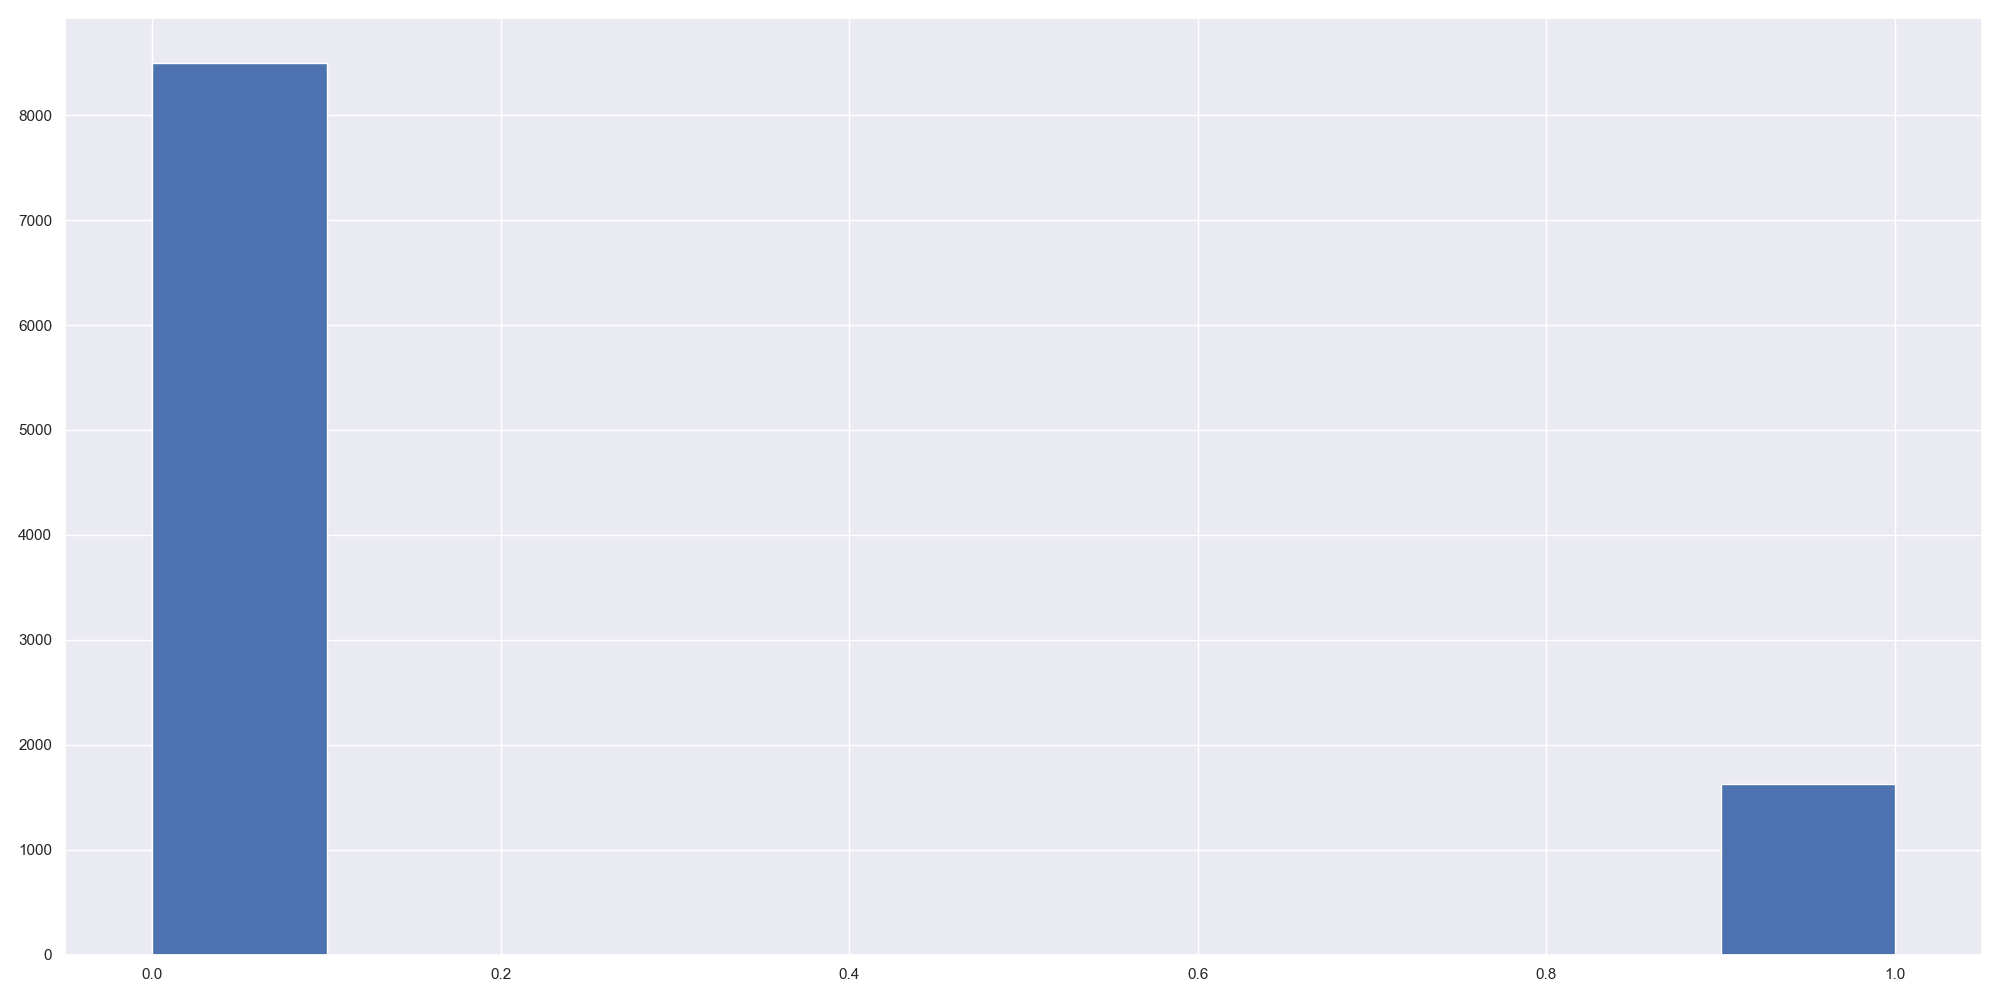
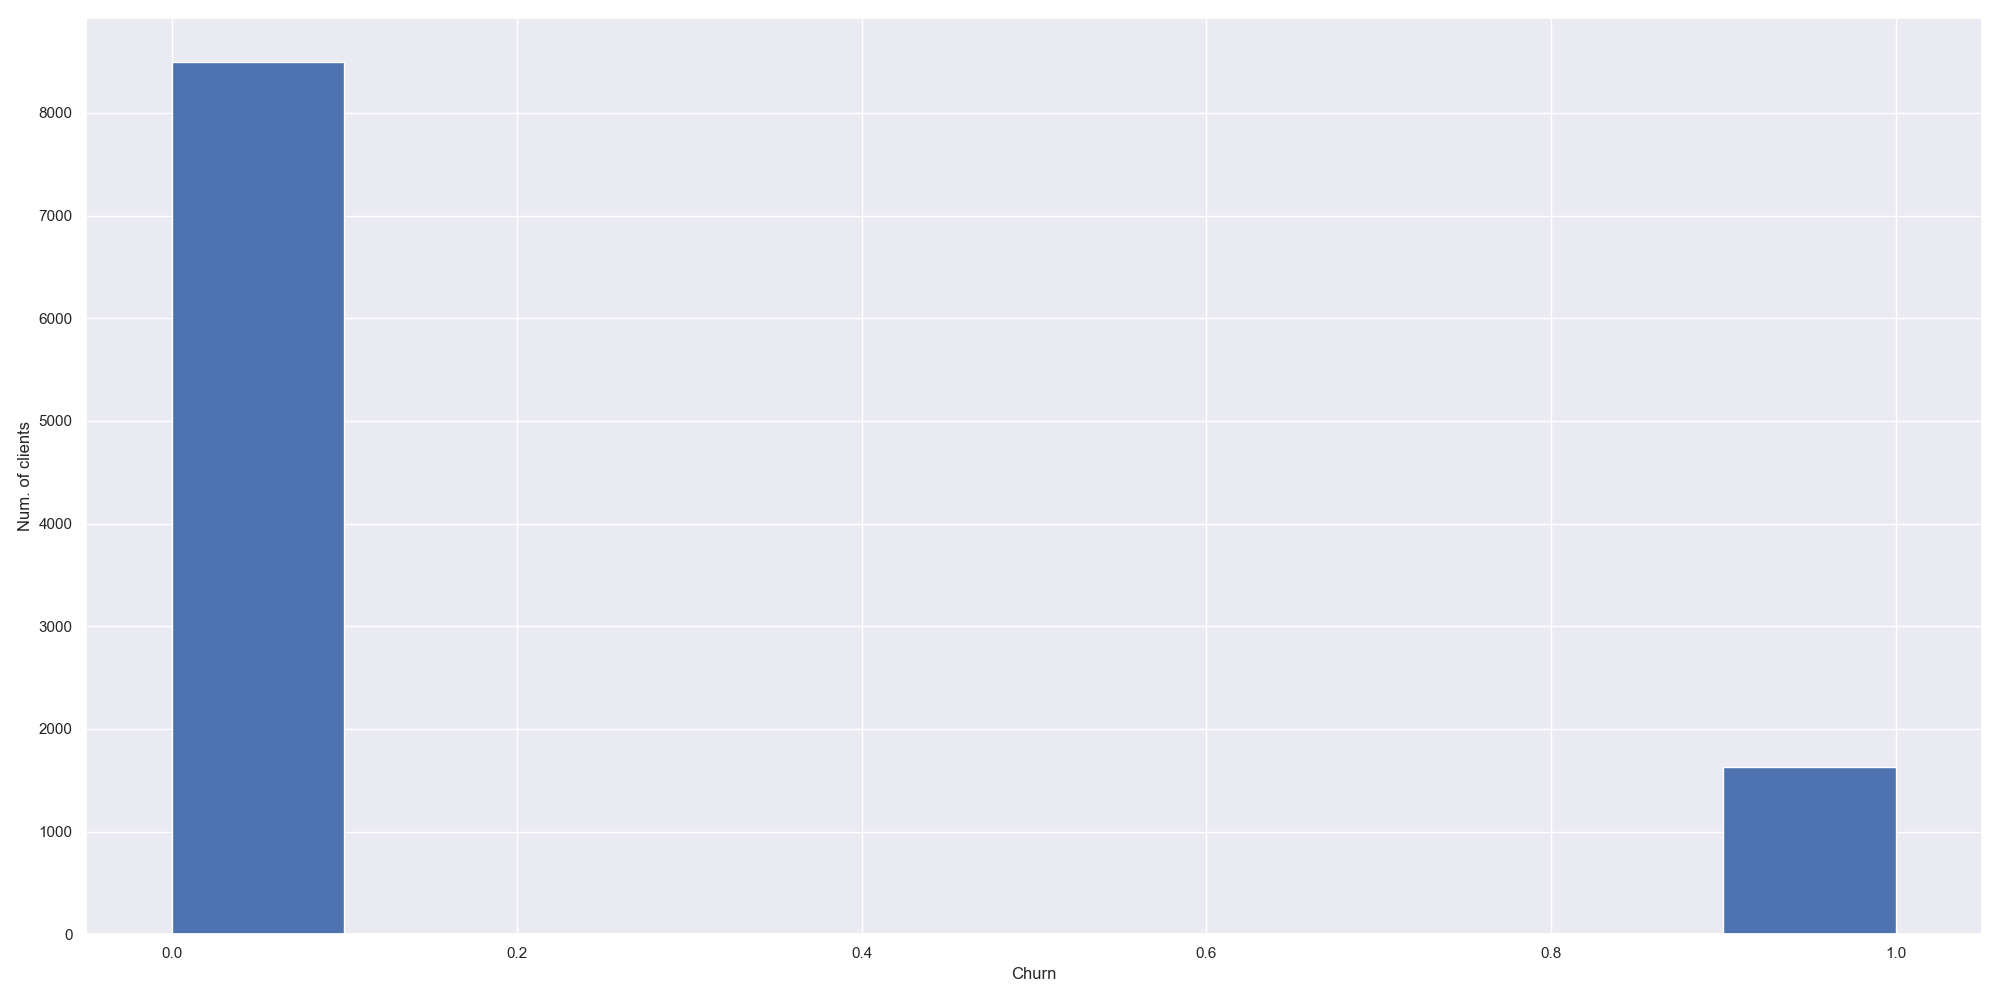
fix eda plots

diff --git a/churn_library.py b/churn_library.py
@@ -49,16 +49,23 @@ def perform_eda(df):
     '''
     plt.figure(figsize=(20, 10))
     plt.hist(df['Churn'])
+    plt.axes().set_xlabel('Churn')
+    plt.axes().set_ylabel('Num. of clients')
     plt.tight_layout()
     plt.savefig('./images/eda/churn_hist.png')
 
     plt.figure(figsize=(20, 10))
     plt.hist(df['Customer_Age'])
+    plt.axes().set_xlabel('Client age')
+    plt.axes().set_ylabel('Num. of clients')
     plt.tight_layout()
     plt.savefig('./images/eda/age_hist.png')
 
     plt.figure(figsize=(20, 10))
     df['Marital_Status'].value_counts('normalize').plot(kind='bar')
+    plt.axes().set_xlabel('Marital status')
+    plt.axes().set_ylabel('Num. of clients (%)')
+    plt.axes().set_yticklabels([0, 10, 20, 30, 40, 50])
     plt.tight_layout()
     plt.savefig('./images/eda/marital_hist.png')
 
@@ -314,5 +321,5 @@ if __name__ == '__main__':
     df_['Churn'] = df_['Attrition_Flag'].apply(
         lambda val: 0 if val == "Existing Customer" else 1)
     perform_eda(df_)
-    dataset  = perform_feature_engineering(df_, 'Churn')
-    train_models(*dataset)
+    # dataset  = perform_feature_engineering(df_, 'Churn')
+    # train_models(*dataset)
